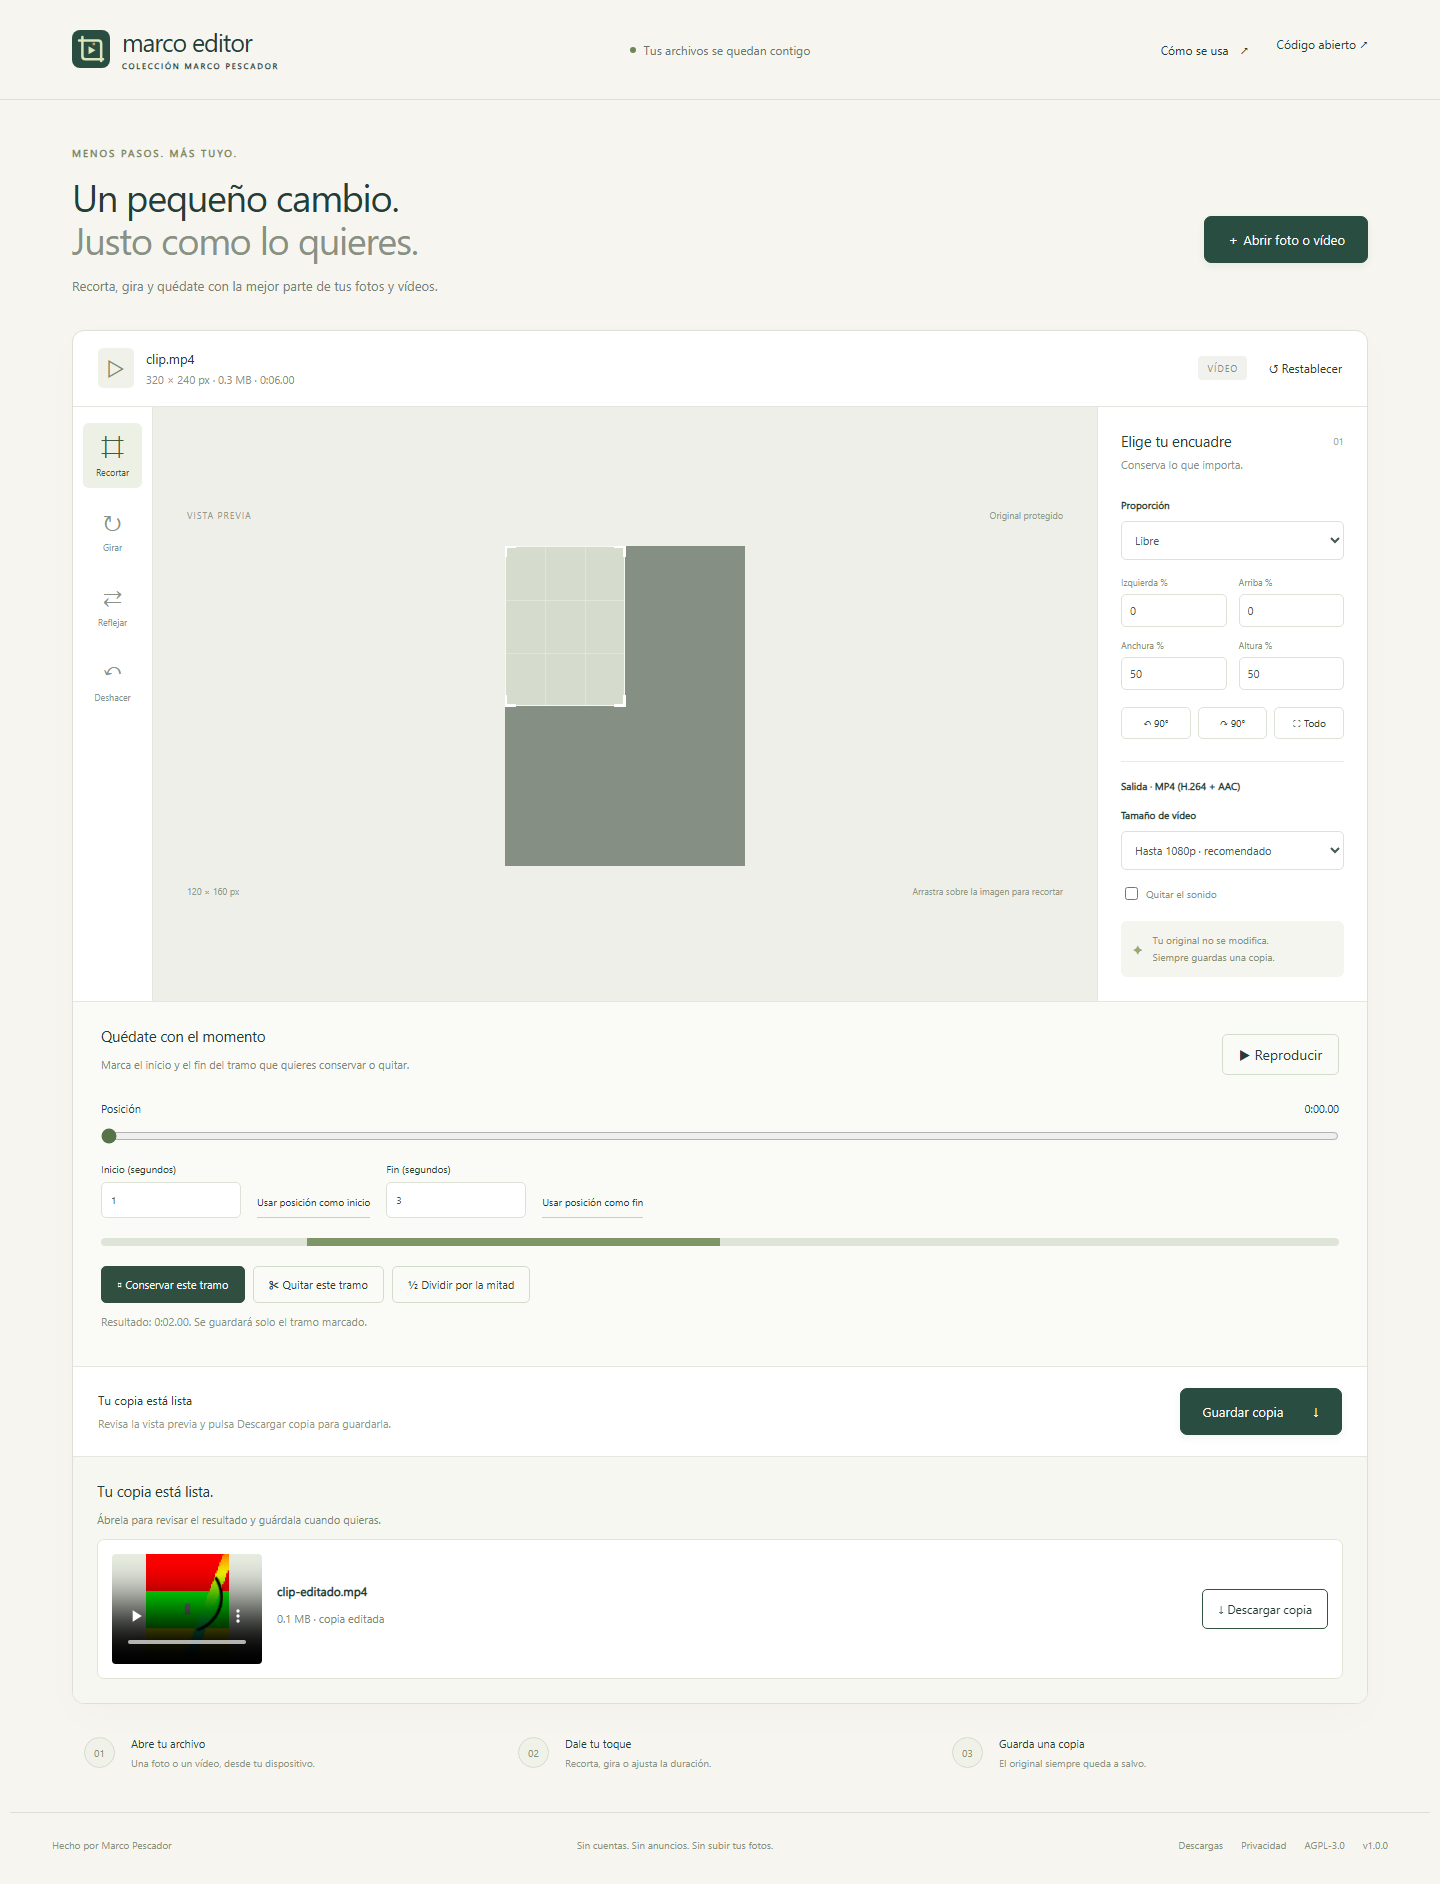
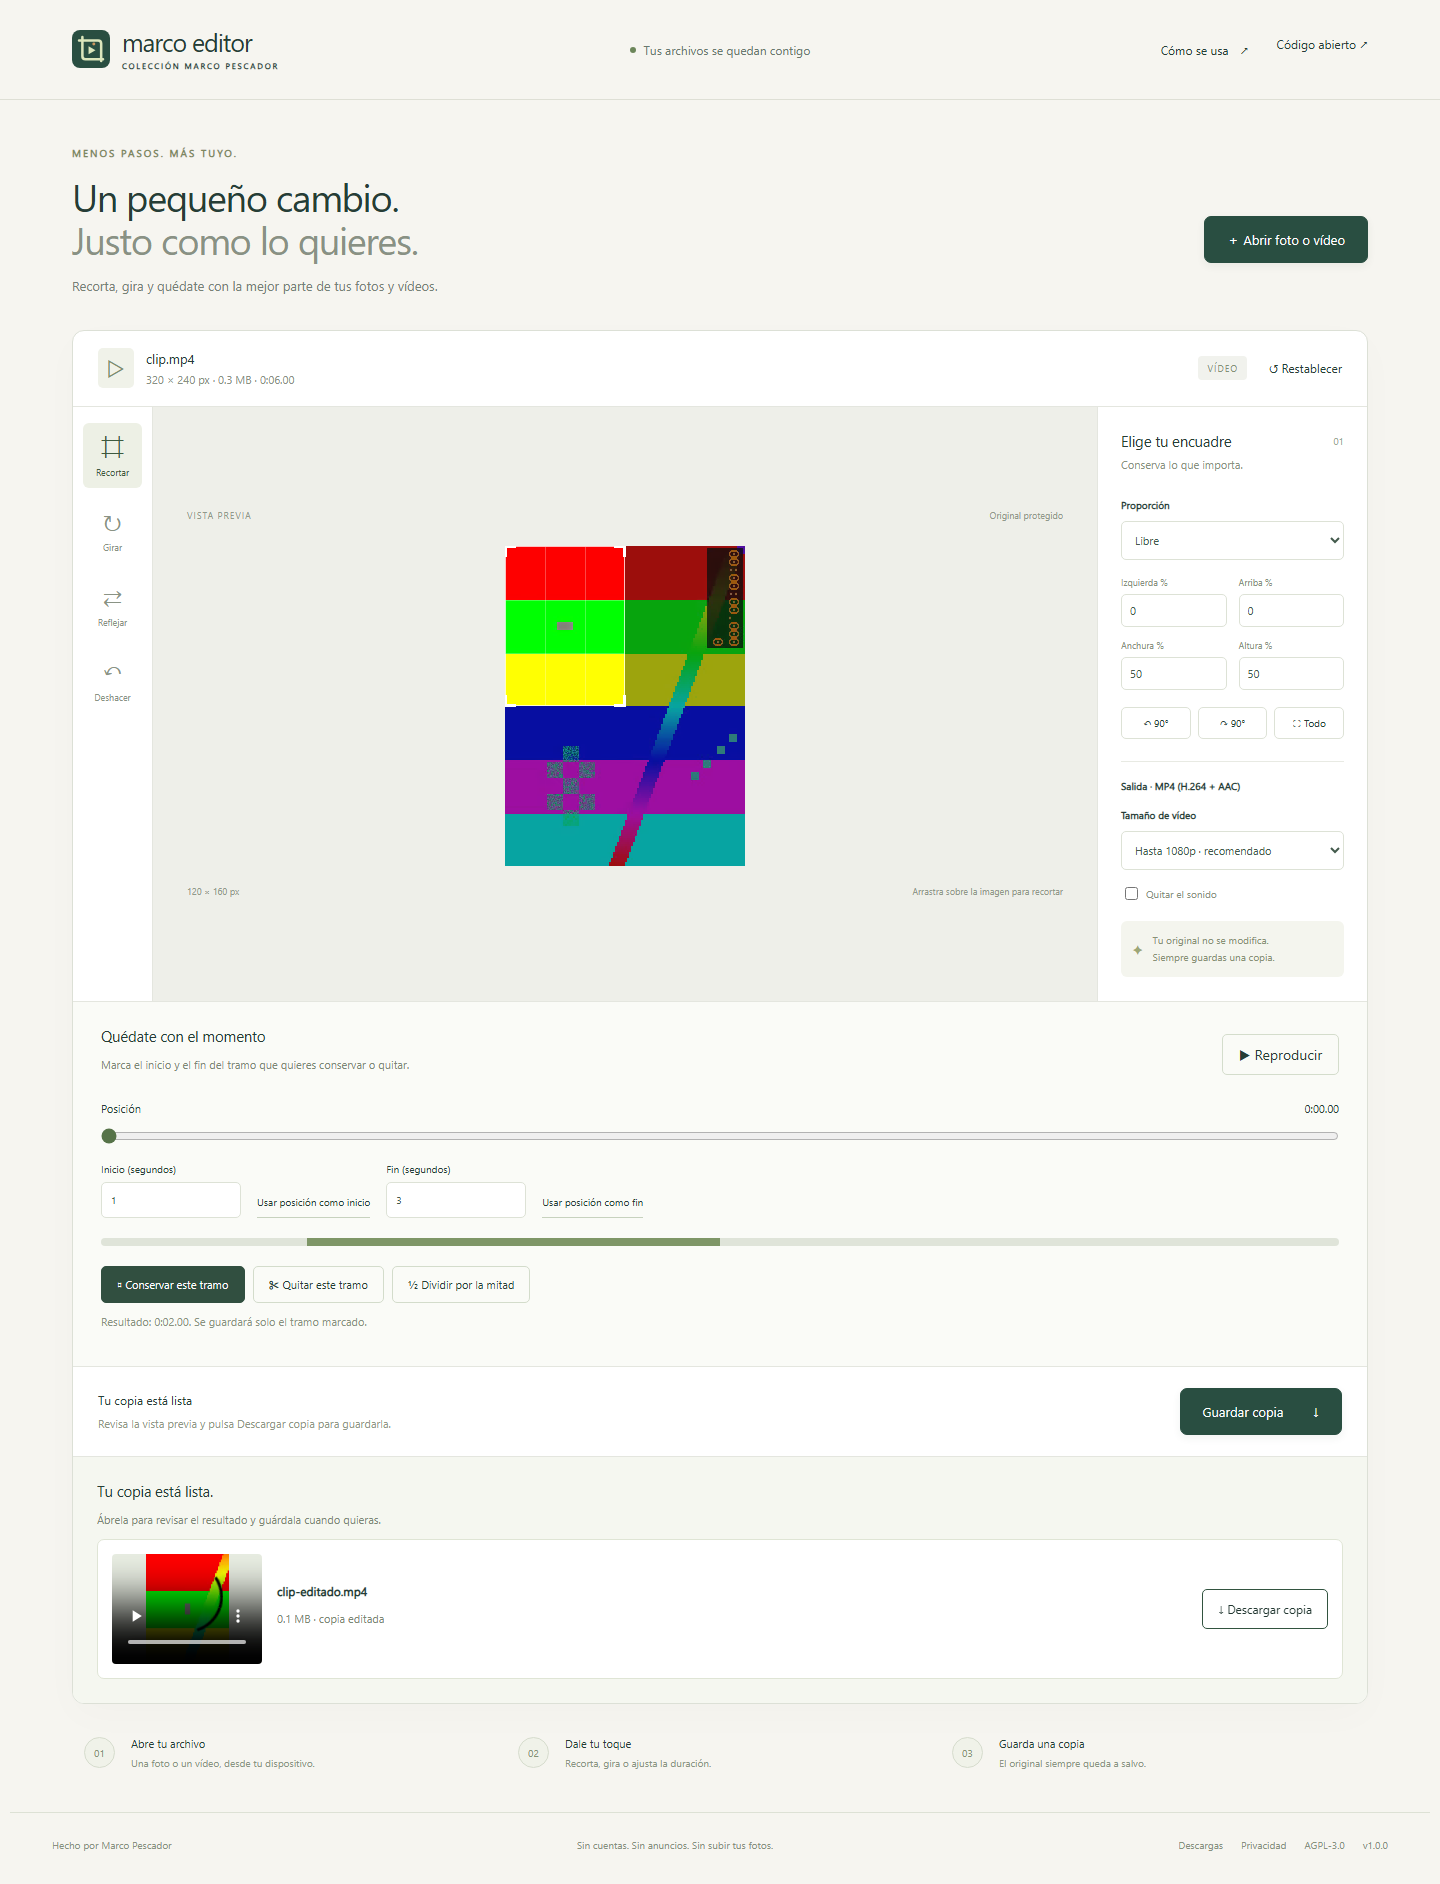
Mostrar el primer fotograma antes de reproducir y verificar sus píxeles

Changed region(s): [[0.3438, 0.2771, 0.5312, 0.4618]]

diff --git a/src/app.js b/src/app.js
@@ -66,6 +66,8 @@ async function loadFile(next){
       w=probe.videoWidth;h=probe.videoHeight;len=probe.duration;probe.removeAttribute('src');probe.load();
       if(!Number.isFinite(len)||len<.1)throw new Error('No se puede leer la duración de este vídeo.');
       item=$('source-video');item.src=url;await new Promise((resolve,reject)=>{item.onloadeddata=resolve;item.onerror=()=>reject(new Error('No se puede abrir el vídeo.'));});
+      // Un vídeo oculto puede anunciar datos sin haber decodificado su primer fotograma.
+      await new Promise(resolve=>{item.addEventListener('seeked',resolve,{once:true});item.currentTime=Math.min(.001,len/2);});
     }else{
       item=new Image();item.src=url;await item.decode();w=item.naturalWidth;h=item.naturalHeight;
       if(/gif/i.test(next.type))message('El GIF se guardará como una imagen fija.');
